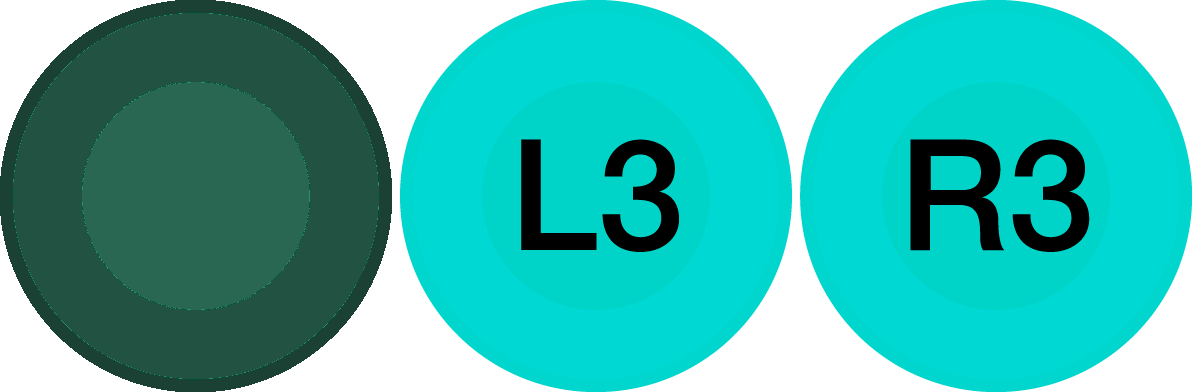
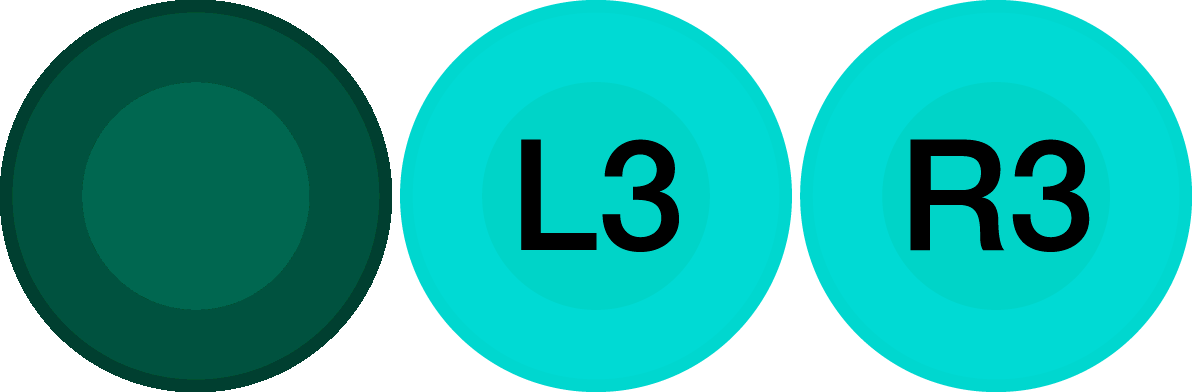
xbox controller mx

Changed region(s): [[0.0, 0.0, 0.3414, 1.0]]

diff --git a/XboxOne/mx.css b/XboxOne/mx.css
@@ -1,0 +1,13 @@
+div#gamepad-0 {
+    background: url(https://raw.githubusercontent.com/samuelzyx/GamePadViewer/main/XboxOne/images/mx.png) center no-repeat;
+    background-size: 100%;
+}
+
+.xbox .stick {
+    position: absolute;
+    background: url(https://raw.githubusercontent.com/samuelzyx/GamePadViewer/main/XboxOne/images/stickredright.png);
+    background-position: -85px 0;
+    background-size: 168px;
+    height: 83px;
+    width: 83px;
+}
